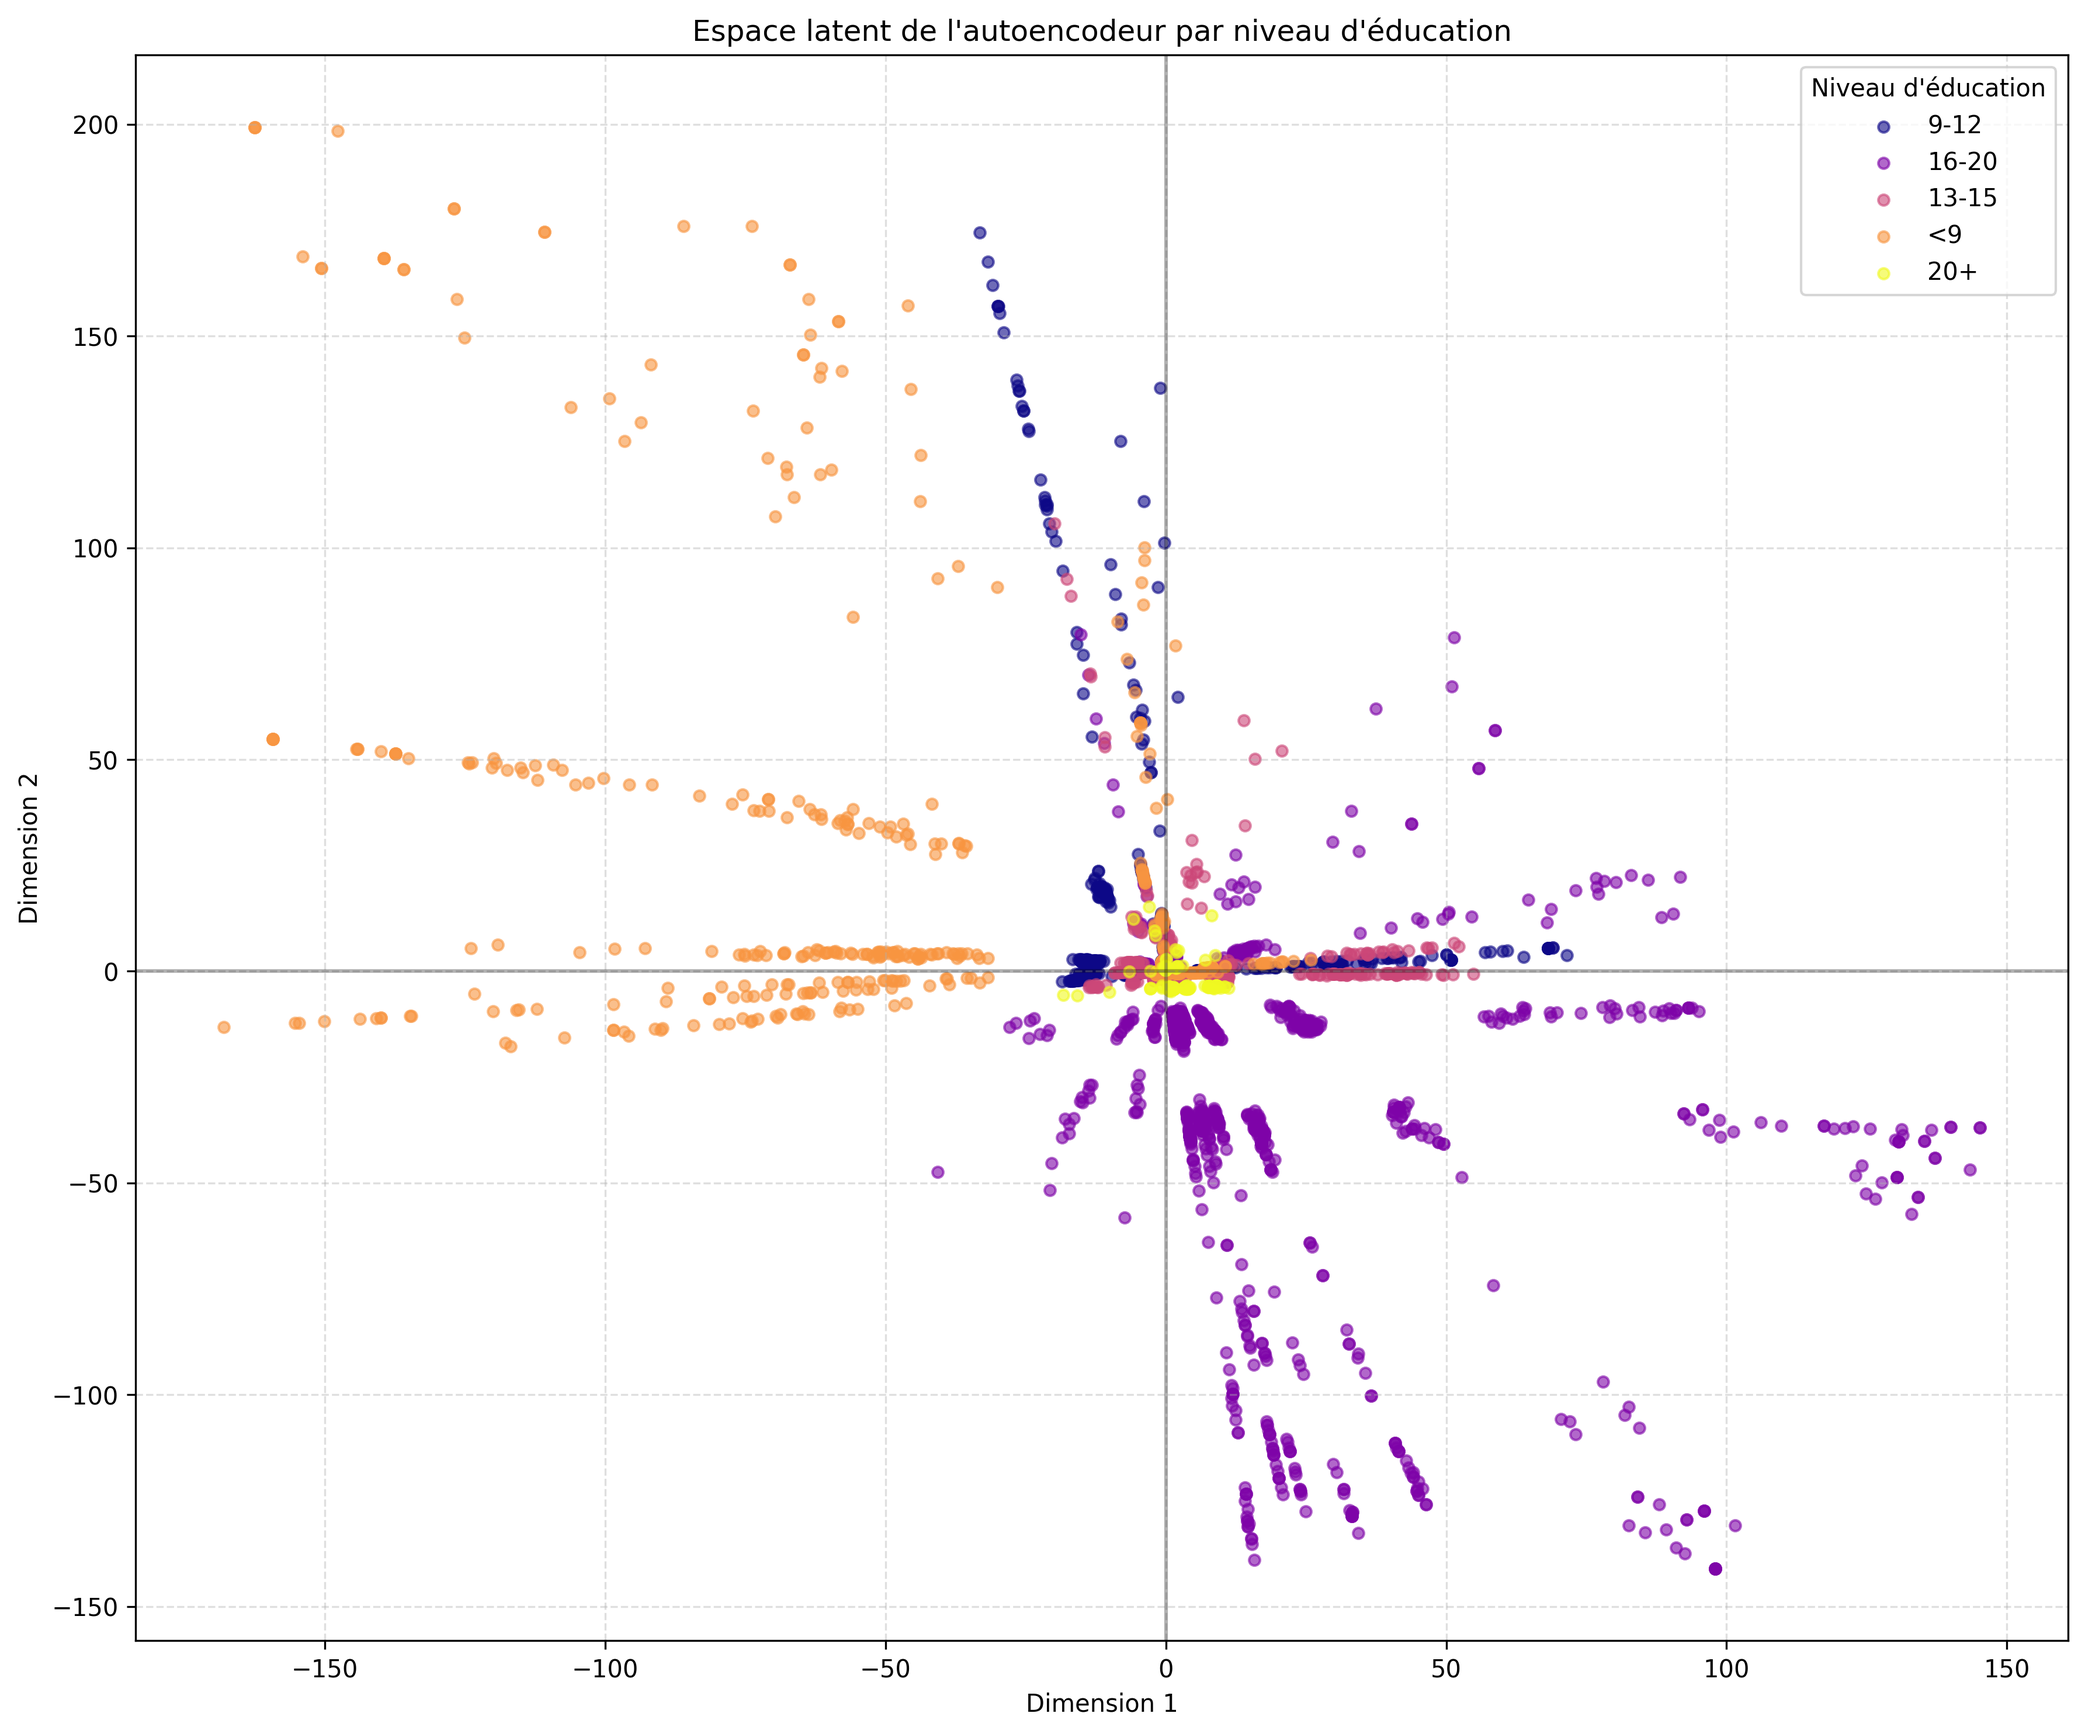
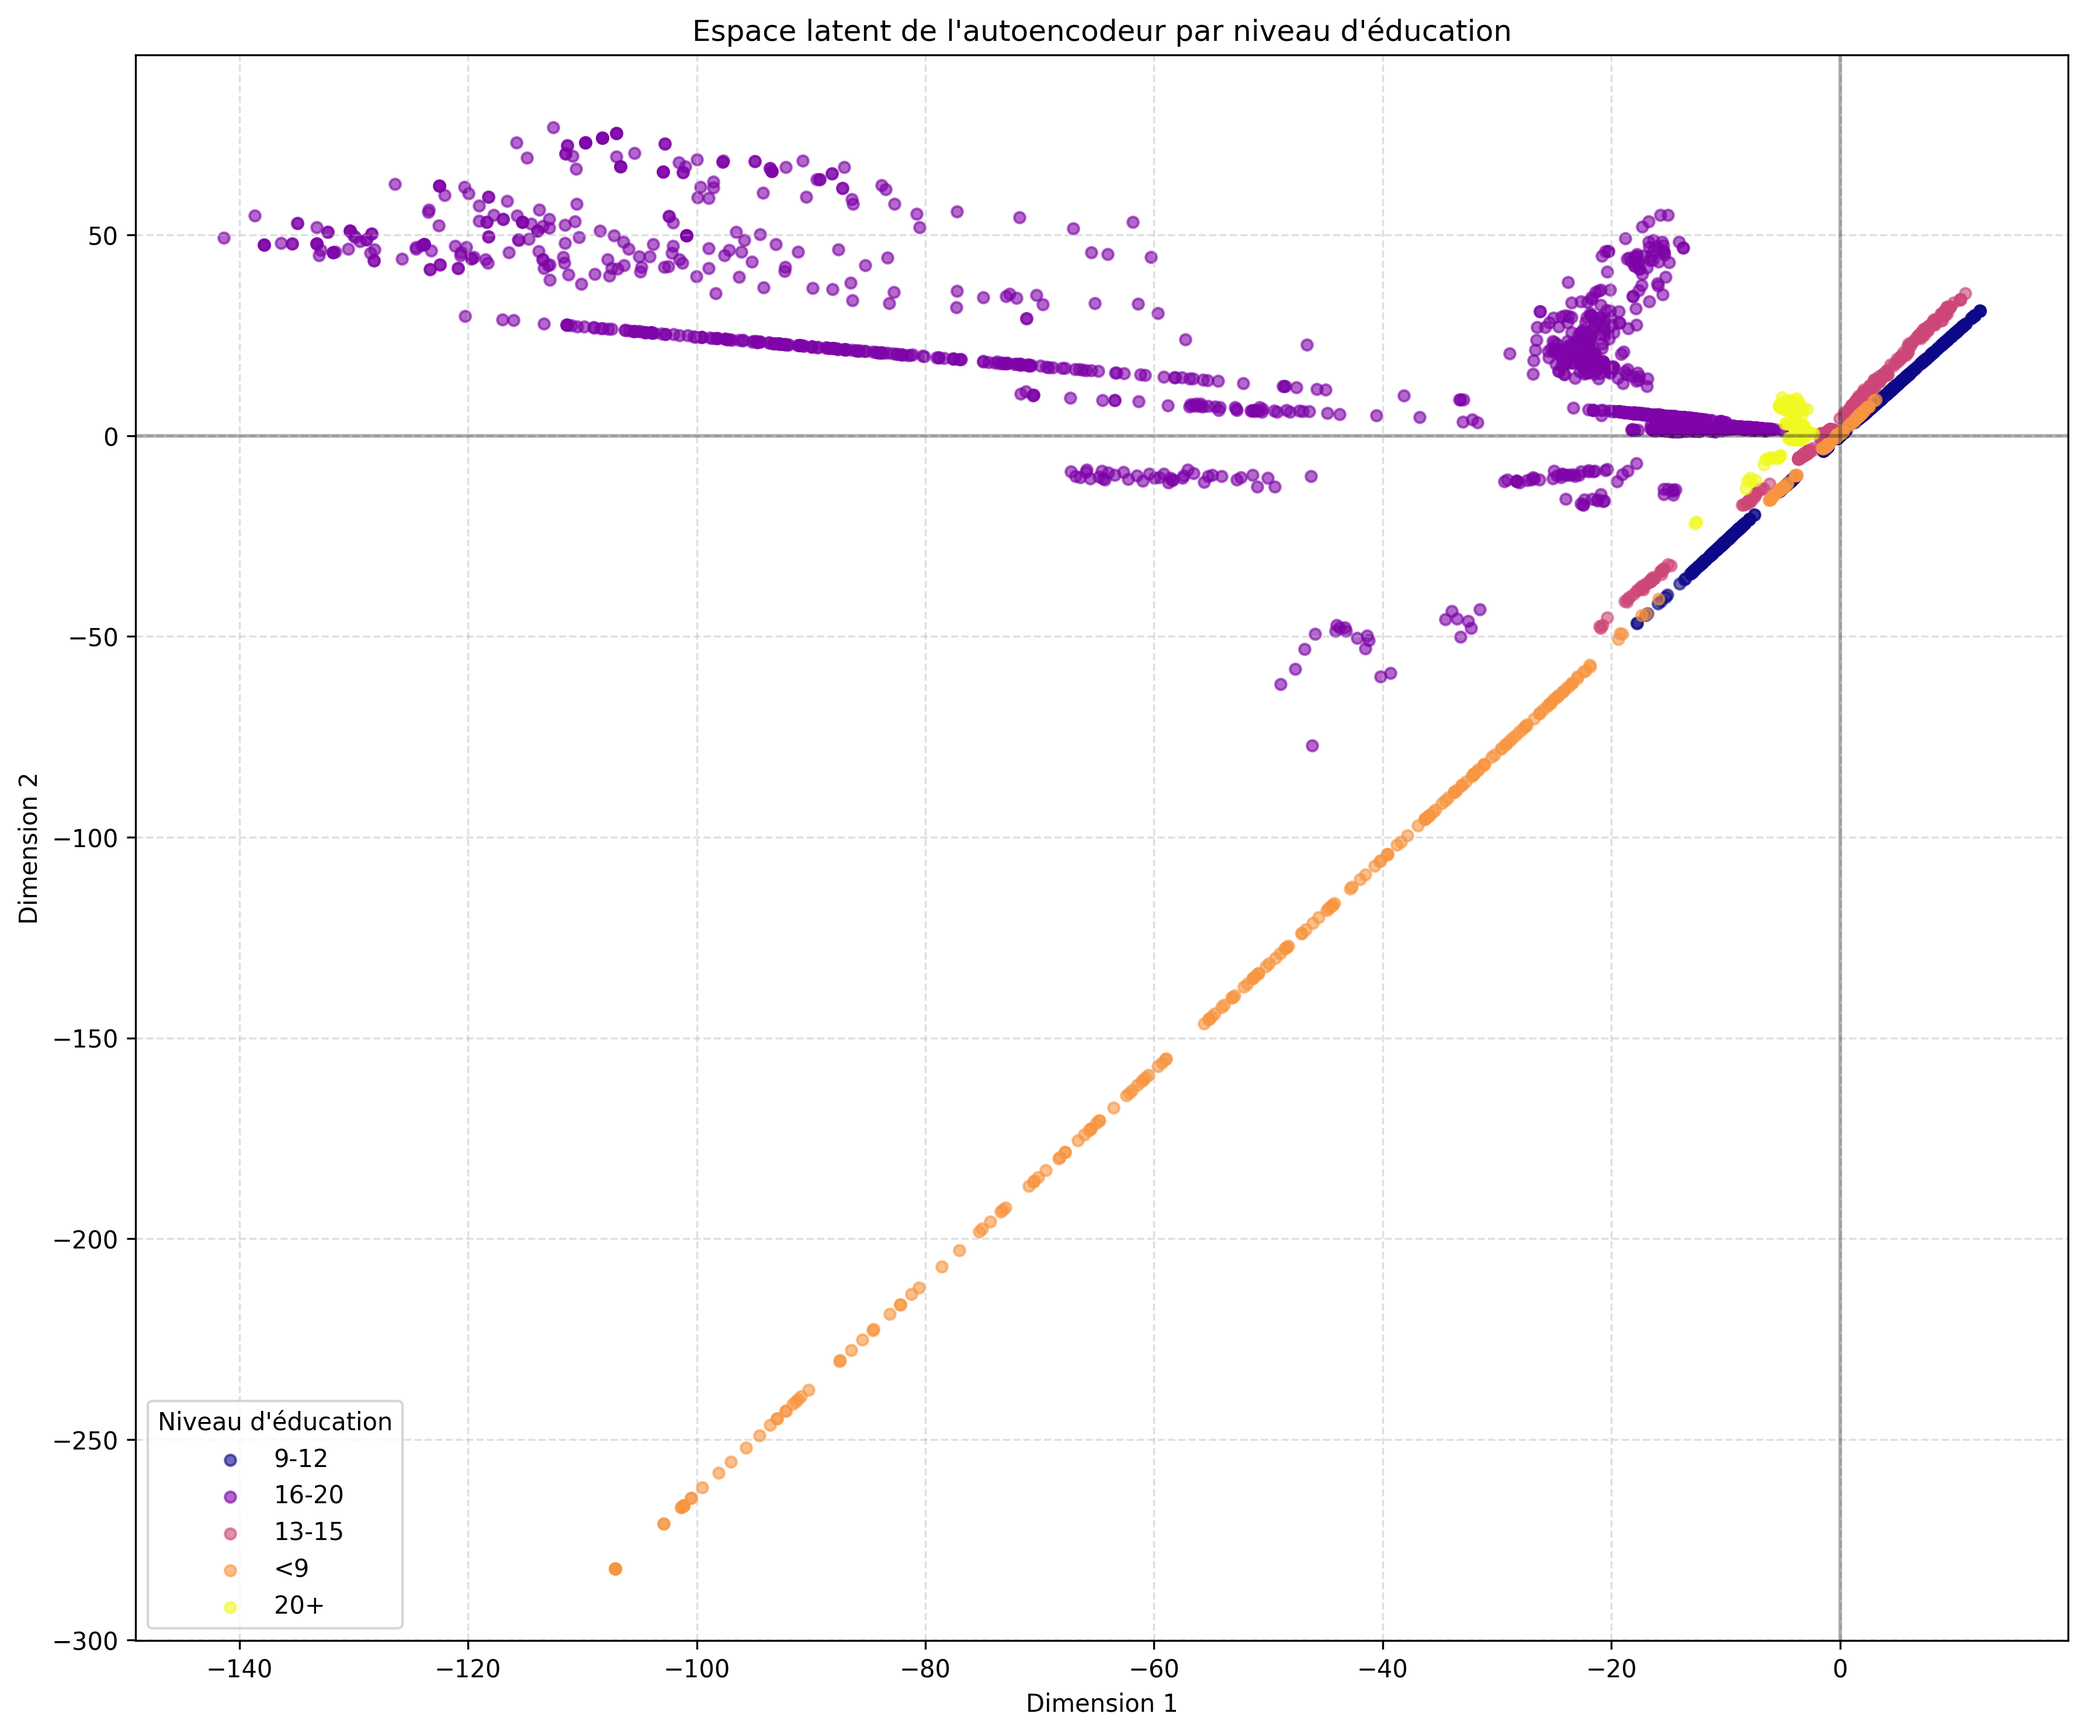
changement de dim

diff --git a/scripts/autoencoder_acm.py b/scripts/autoencoder_acm.py
@@ -30,30 +30,30 @@ class Autoencoder(nn.Module):
         
         # Encodeur
         self.encoder = nn.Sequential(
-            nn.Linear(input_dim, 128),
-            nn.ReLU(),
-            nn.Dropout(0.2),
-            nn.Linear(128, 64),
+            nn.Linear(input_dim, 64),
             nn.ReLU(),
             nn.Dropout(0.2),
             nn.Linear(64, 32),
             nn.ReLU(),
             nn.Dropout(0.2),
-            nn.Linear(32, encoding_dim)
+            nn.Linear(32, 16),
+            nn.ReLU(),
+            nn.Dropout(0.2),
+            nn.Linear(16, encoding_dim)
         )
         
         # Décodeur
         self.decoder = nn.Sequential(
-            nn.Linear(encoding_dim, 32),
+            nn.Linear(encoding_dim, 16),
+            nn.ReLU(),
+            nn.Dropout(0.2),
+            nn.Linear(16, 32),
             nn.ReLU(),
             nn.Dropout(0.2),
             nn.Linear(32, 64),
             nn.ReLU(),
             nn.Dropout(0.2),
-            nn.Linear(64, 128),
-            nn.ReLU(),
-            nn.Dropout(0.2),
-            nn.Linear(128, input_dim),
+            nn.Linear(64, input_dim),
             nn.Sigmoid()
         )
     
@@ -80,7 +80,7 @@ optimizer = optim.Adam(model.parameters(), lr=0.001)
 
 # Entrainer l'autoencodeur
 print("\nEntrainement de l'autoencodeur...")
-epochs = 100
+epochs = 1000
 loss_history = []
 
 for epoch in range(epochs):
@@ -218,9 +218,15 @@ for name, row in modality_df.iterrows():
     plt.scatter(x, y, color=color, alpha=0.8, s=100)
     plt.annotate(f"{var_name}_{modality}", (x, y), fontsize=9, alpha=0.8)
 
-# Ajouter des légendes pour les axes
-plt.axhline(y=0, color='k', linestyle='-', alpha=0.3)
-plt.axvline(x=0, color='k', linestyle='-', alpha=0.3)
+# Configurer les limites des axes pour concentrer la vue sur les données
+x_min, x_max = modality_df['Dimension_1'].min(), modality_df['Dimension_1'].max()
+y_min, y_max = modality_df['Dimension_2'].min(), modality_df['Dimension_2'].max()
+# Ajouter 10% de marge autour des données
+x_margin = (x_max - x_min) * 0.1
+y_margin = (y_max - y_min) * 0.1
+plt.xlim(x_min - x_margin, x_max + x_margin)
+plt.ylim(y_min - y_margin, y_max + y_margin)
+
 plt.grid(True, linestyle='--', alpha=0.4)
 plt.xlabel('Dimension 1')
 plt.ylabel('Dimension 2')
